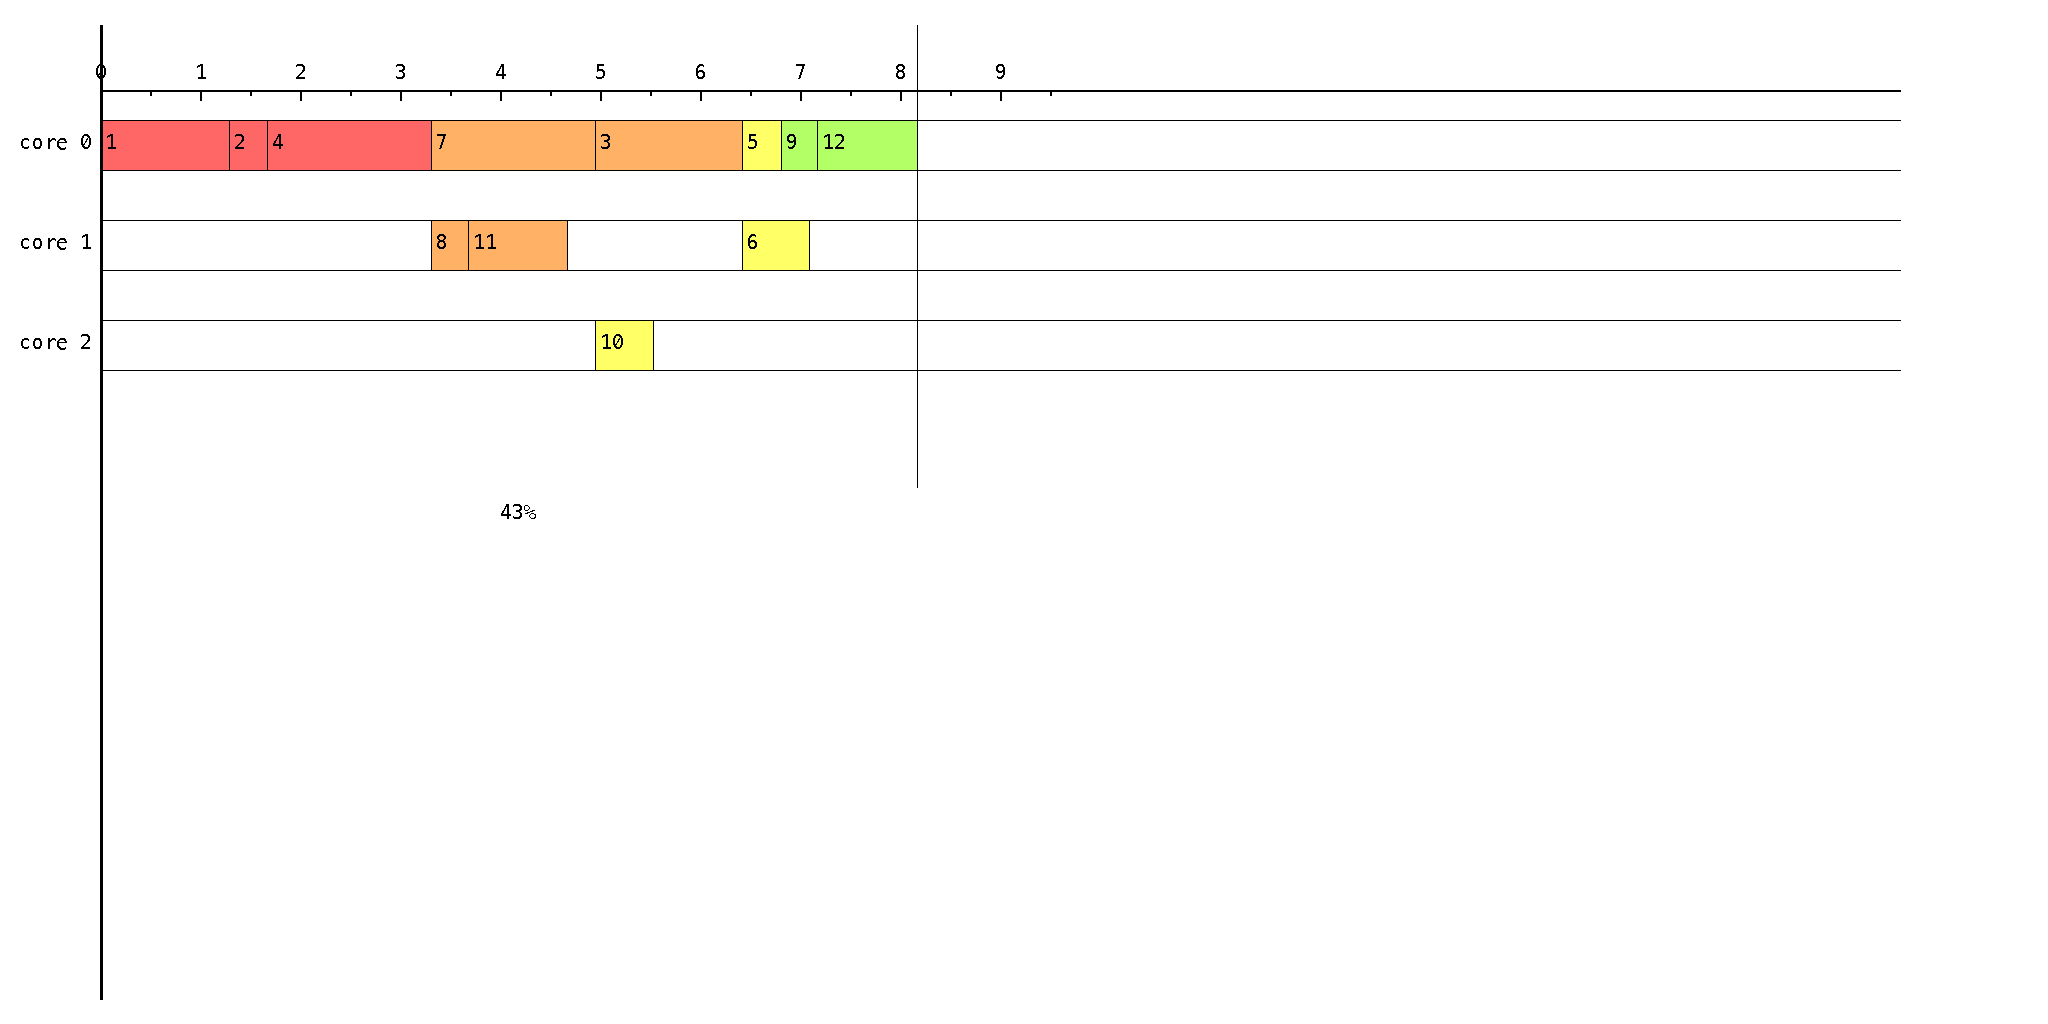
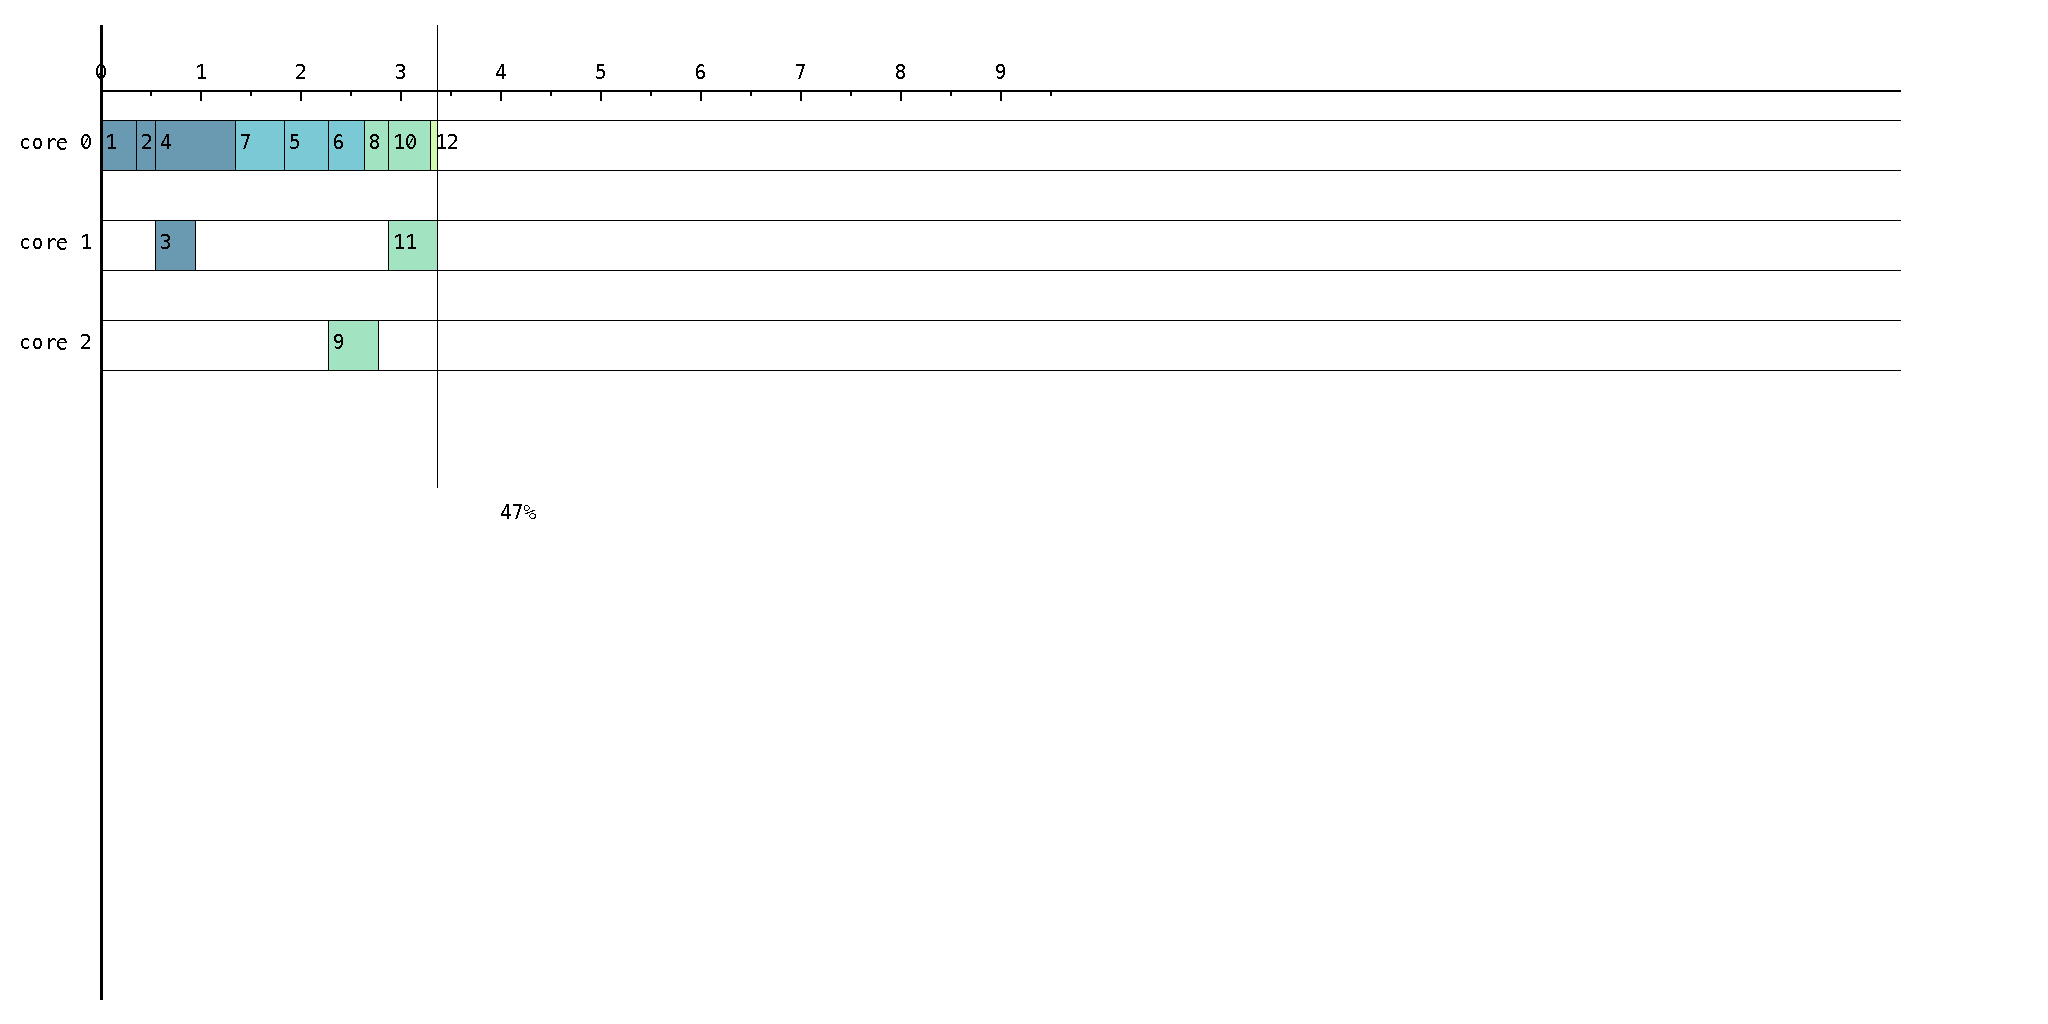
update

diff --git a/gty/src/main_cpop.py b/gty/src/main_cpop.py
@@ -28,34 +28,33 @@ def main():
     # init example for heft
     init_dag(graph, communication_cpu, core)
 
-    # heft
+    # cpop
     processors, tasks, priority_list = cpop()
     order = [t.id for t in priority_list]
-    print(order)
     
     # containerize
-    r_dag, cpath, index, cont, bridge_tasks, new_tasks, new_processors = containerize(dag, processors, tasks, order, 'forward', 2)
+    r_dag, cpath, index, cont, bridge_tasks, new_tasks, new_processors = containerize(dag, processors, tasks, order, 'forward', 3)
     print('forward:')
     draw.draw_canvas([(x.id, round(x.ast, 1), round(x.aft, 1), x.processor) for x in new_tasks], cont, 'forward.png')
     print(new_tasks[vertex_num].aft)
     print(cont)
 
     # containerize
-    r_dag, cpath, index, cont, bridge_tasks, new_tasks, new_processors = containerize(dag, processors, tasks, order, 'backward', 2)
+    r_dag, cpath, index, cont, bridge_tasks, new_tasks, new_processors = containerize(dag, processors, tasks, order, 'backward', 3)
     print('backward:')
     draw.draw_canvas([(x.id, round(x.ast, 1), round(x.aft, 1), x.processor) for x in new_tasks], cont, 'backward.png')
     print(new_tasks[vertex_num].aft)
     print(cont)
 
     # in order
-    r_dag, cpath, index, cont, bridge_tasks, new_tasks, new_processors = containerize(dag, processors, tasks, order, 'inorder', 2)
+    r_dag, cpath, index, cont, bridge_tasks, new_tasks, new_processors = containerize(dag, processors, tasks, order, 'inorder', 3)
     print('in order:')
     draw.draw_canvas([(x.id, round(x.ast, 1), round(x.aft, 1), x.processor) for x in new_tasks], cont, 'inorder.png')
     print(new_tasks[vertex_num].aft)
     print(cont)
 
     # random
-    r_dag, cpath, index, cont, bridge_tasks, new_tasks, new_processors = containerize(dag, processors, tasks, order, 'rand', 2)
+    r_dag, cpath, index, cont, bridge_tasks, new_tasks, new_processors = containerize(dag, processors, tasks, order, 'rand', 3)
     print('random:')
     draw.draw_canvas([(x.id, round(x.ast, 1), round(x.aft, 1), x.processor) for x in new_tasks], cont, 'random.png')
     print(new_tasks[vertex_num].aft)

diff --git a/gty/src/maxcut.py b/gty/src/maxcut.py
@@ -14,7 +14,7 @@ def graph1_parameter():
     impact_factor = 1.1
     arc_num = 18
     vertex_num = 12
-    core = 2
+    core = 3
     return impact_factor, arc_num, vertex_num, core
 
 def graph2_parameter():
@@ -50,7 +50,7 @@ def initial_graph_1(vertex_num, arc_num, impact_factor):
     vertex_cpu = []
     communication_cpu = []
     for i in range(vertex_num):
-        vertex_cpu.append(random.randint(2,10)*10)
+        vertex_cpu.append(random.randint(2,10))
         for j in range(vertex_num):
             graph[i, j] = -1
     print('vertex_cpu:')

diff --git a/gty/src/cpop.py b/gty/src/cpop.py
@@ -223,10 +223,10 @@ def cpop():
 
     logging.info('makespan: %s', makespan(tasks))
 
-    priority_list = [0]
+    priority_list = [tasks[0]]
     for p in processors:
         for t in p.tasks:
             priority_list.append(t)
     tasks[0].processor = 0
-    print([(x.id, round(x.ast, 1), round(x.aft, 1), x.processor) for x in tasks])
+    processors[0].tasks = [tasks[0]] + processors[0].tasks
     return processors, tasks, priority_list
